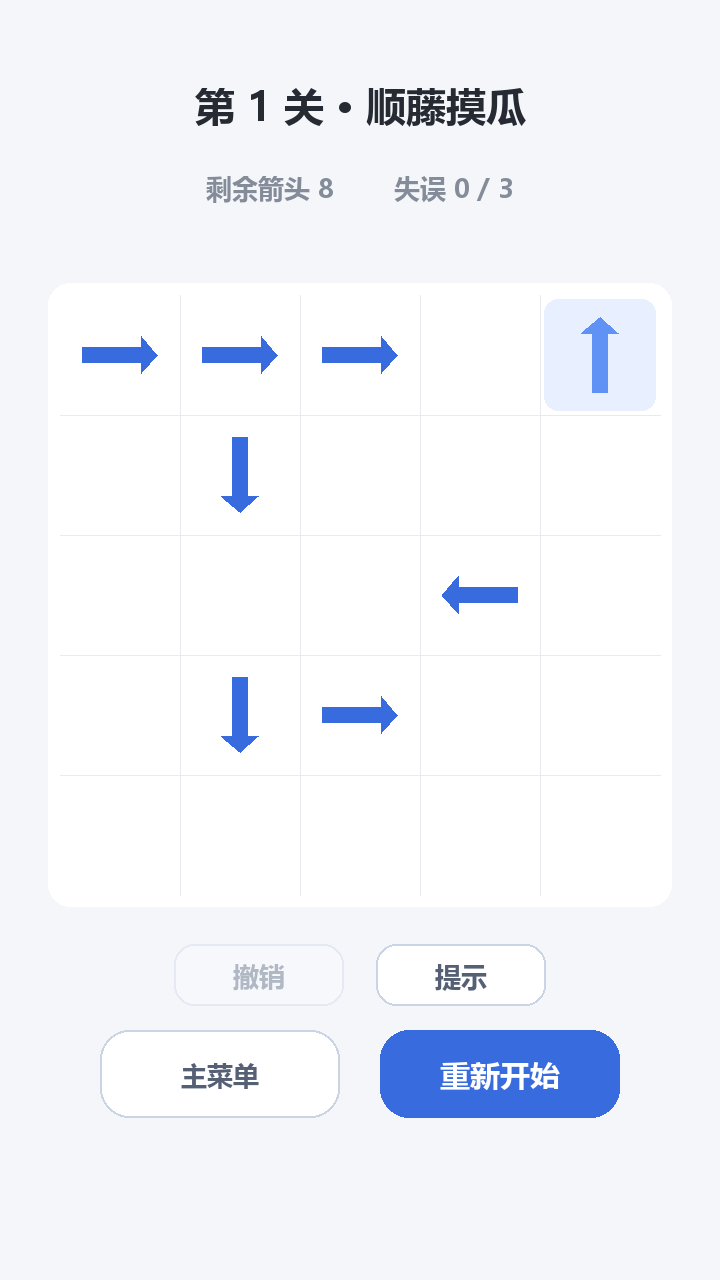
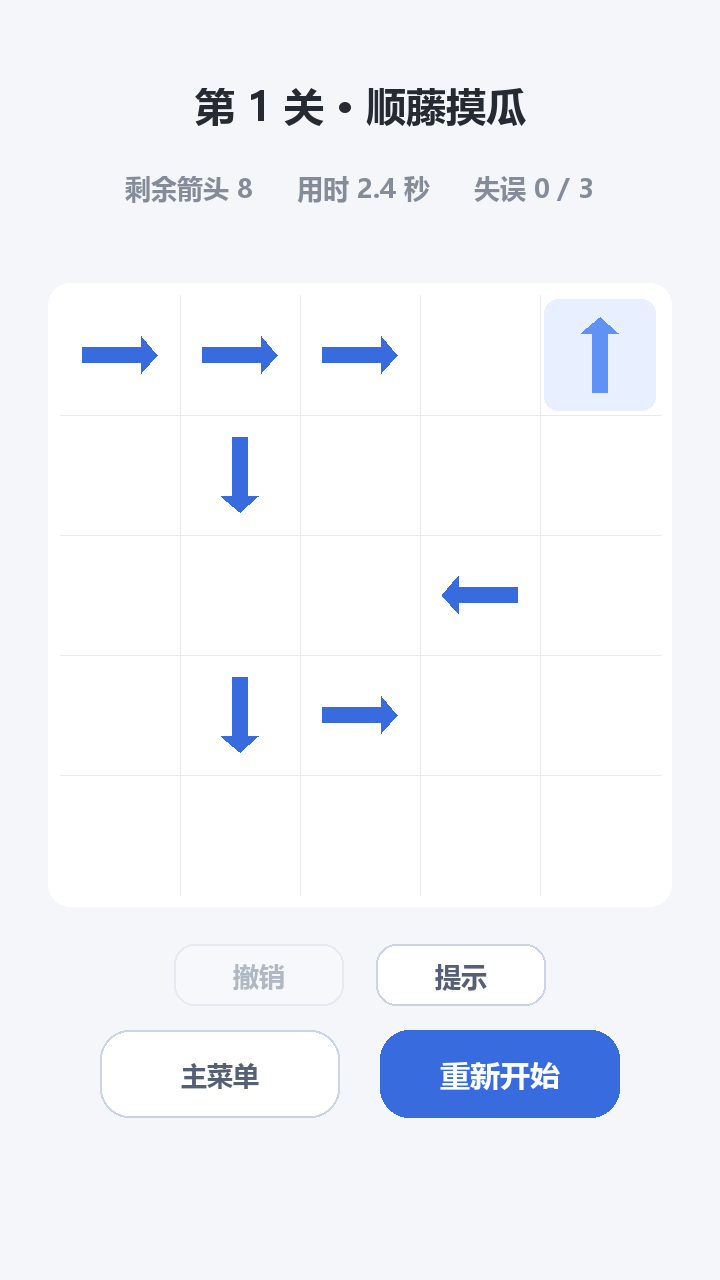
docs: 同步 README / DEVLOG / 博客与截图素材
- README：新增「星级与得分」规则表；截图补「通关（有失误）」与「全部通关」；
  功能一览补计时、星级、得分三项；HUD 描述加用时；测试一节 30 → 34 项
- DEVLOG：新增记录 19（计时、星级评价与得分），现共 19 条
- 博客：2.2 界面表与 2.3 功能列表补新功能；2.4 数字更新；4.1 汇总表补一行；
  4.2 增补第 5 次代表性协作（键盘路径漏加守卫）；5.2 补 T22~T25、汇总 30 → 34；
  5.3 增补一条；项目展示补两张截图
- capture_screenshots.py：若干场景原先在点击之间不推进时间，导致结算里的用时显示
  为 0.0 秒、选关卡片全成满分，一并修正；新增一张「有失误的通关结算」用于对照说明
  评级规则
- 截图与演示动图按新界面全部重出

Changed region(s): [[0.1528, 0.125, 0.825, 0.1562]]

diff --git a/tools/capture_screenshots.py b/tools/capture_screenshots.py
@@ -44,23 +44,48 @@ def setup_menu(game):
 
 
 def setup_playing(game):
-    """游戏中：进入第一关，鼠标悬停在右上角的箭头上。"""
+    """游戏中：进入第一关，鼠标悬停在右上角的箭头上。
+
+    先推进一会儿时间，让 HUD 上的用时是个"进行中"的数字而不是 0.0。
+    """
     game.start_game()
+    game.update(2.4)
     game.hover = (0, 4)
 
 
 def setup_collision(game):
     """碰撞反馈：点击被阻挡的箭头，取晃动动画中间的一帧。"""
     game.start_game()
+    game.update(1.6)
     game.on_click(renderer.cell_center(game.origin, 0, 0))
     game.update(0.17)
 
 
 def setup_win(game):
-    """通关界面：按求解器给出的顺序清空棋盘，并等结算延迟走完。"""
+    """通关界面：按求解器给出的顺序清空棋盘，并等结算延迟走完。
+
+    每次点击后推进一点时间——否则用时停在 0.0 秒，结算画面会显得很假。
+    """
     game.start_game()
     for arrow in solve(game.board):
         game.on_click(renderer.cell_center(game.origin, arrow.row, arrow.col))
+        game.update(0.6)
+    game.update(1.0)
+
+
+def setup_win_rated(game):
+    """带有失误的通关结算：用来说明星级和得分是怎么被扣掉的。
+
+    与 setup_win 的满分局面形成对照——同样是通关，多一次失误就少一颗星、
+    少 200 分，结算界面里的每一个数字都对得上规则。
+    """
+    game.start_game()
+    blocked = next(a for a in game.board.arrows if not game.board.can_fly_out(a))
+    game.on_click(renderer.cell_center(game.origin, blocked.row, blocked.col))
+    game.update(0.5)
+    for arrow in solve(game.board):
+        game.on_click(renderer.cell_center(game.origin, arrow.row, arrow.col))
+        game.update(0.6)
     game.update(1.0)
 
 
@@ -75,6 +100,7 @@ def setup_lose(game):
 def setup_level5(game):
     """第 5 关：箭头最密集、依赖链最长的一关。"""
     game.start_level(len(game.levels) - 1)
+    game.update(6.8)
     game.hover = (4, 4)
 
 
@@ -83,22 +109,25 @@ def setup_all_clear(game):
     game.start_game()
     last = len(game.levels) - 1
     for index in range(len(game.levels)):
-        for arrow in solve(game.board):
-            game.on_click(renderer.cell_center(game.origin, arrow.row, arrow.col))
-        game.update(1.0)              # 走完"最后的箭头飞出"延迟，切到结算界面
+        clear_level(game)             # 内含时间推进与结算延迟等待
         if index < last:
             game.on_result_button()
 
 
 def clear_level(game):
-    """按求解器给出的顺序打通当前关卡，并把结算延迟走完。"""
+    """按求解器给出的顺序打通当前关卡，并把结算延迟走完。
+
+    同样要在点击之间推进时间，否则成绩里的用时为 0，选关卡片与
+    「全部通关」界面上的得分就全成了满分，看不出评级在起作用。
+    """
     for arrow in solve(game.board):
         game.on_click(renderer.cell_center(game.origin, arrow.row, arrow.col))
+        game.update(0.6)
     game.update(1.0)
 
 
 def setup_select(game):
-    """关卡选择界面：先通关前两关，让卡片上出现「已通关」标记。"""
+    """关卡选择界面：先通关前两关，让卡片上出现星级与得分。"""
     game.start_game()
     for _ in range(2):
         clear_level(game)
@@ -127,6 +156,7 @@ def main():
     capture("06_all_clear.png", setup_all_clear)
     capture("07_select.png", setup_select)
     capture("08_menu_progress.png", setup_menu_progress)
+    capture("09_win_rated.png", setup_win_rated)
 
     pygame.quit()
     return 0

diff --git a/docs/blog.md b/docs/blog.md
@@ -12,7 +12,7 @@
 
 ## 一、项目展示
 
-**玩法演示**（开始界面 → 关卡选择 → 游戏过程含一次碰撞 → 通关结算，约 9 秒）：
+**玩法演示**（开始界面 → 关卡选择 → 游戏过程含一次碰撞 → 通关结算，约 8.7 秒）：
 
 ![玩法演示](screenshots/demo.gif)
 
@@ -22,9 +22,13 @@
 | --- | --- | --- |
 | ![开始界面](screenshots/00_menu.png) | ![选关界面](screenshots/07_select.png) | ![游戏界面](screenshots/01_playing.png) |
 
-| 碰撞反馈 | 通关结算 | 失败结算 |
-| --- | --- | --- |
-| ![碰撞反馈](screenshots/02_collision.png) | ![通关](screenshots/03_win.png) | ![失败](screenshots/04_lose.png) |
+| 碰撞反馈 | 通关结算（零失误） | 通关结算（有失误） | 失败结算 |
+| --- | --- | --- | --- |
+| ![碰撞反馈](screenshots/02_collision.png) | ![通关](screenshots/03_win.png) | ![通关-有失误](screenshots/09_win_rated.png) | ![失败](screenshots/04_lose.png) |
+
+| 第 5 关（最难关卡） | 全部通关（累计总分与星数） |
+| --- | --- |
+| ![第 5 关](screenshots/05_level5.png) | ![全部通关](screenshots/06_all_clear.png) |
 
 以上画面全部由脚本驱动真实游戏生成，不是手绘或拼贴：`tools/make_gif.py` 输出演示 GIF，`tools/capture_screenshots.py` 输出全部截图——改动界面或动画参数后重跑一次，图和文档就同步更新了。
 
@@ -54,11 +58,11 @@
 
 | 界面 | 内容 |
 | --- | --- |
-| 开始界面 | 标题、玩法一句话说明、四个方向的示例箭头、「开始游戏」；有进度时额外出现「继续游戏 · 第 N 关」 |
-| 关卡选择 | 五张关卡卡片，显示序号、主题名、状态（已通关 / 剩余箭头数） |
-| 游戏界面 | 顶部显示关卡名、剩余箭头数、失误次数；中部棋盘；底部分两行按钮——上行「撤销 / 提示」，下行「主菜单 / 重新开始」 |
-| 通关结算 | 「过关！」或「全部通关！」+「主菜单 / 重玩本关 / 下一关」 |
-| 失败结算 | 「失误次数用完了」+ 已清除 / 剩余数量 +「主菜单 / 重试本关」 |
+| 开始界面 | 标题、玩法一句话说明、四个方向的示例箭头、「开始游戏」；有进度时额外出现「继续游戏 · 第 N 关」；有成绩时显示累计星数与总分 |
+| 关卡选择 | 五张关卡卡片，显示序号、主题名与状态——已通关的显示该关星级和得分，未通关的显示剩余箭头数 |
+| 游戏界面 | 顶部显示关卡名、剩余箭头数、本关用时、失误次数；中部棋盘；底部分两行按钮——上行「撤销 / 提示」，下行「主菜单 / 重新开始」 |
+| 通关结算 | 「过关！」或「全部通关！」+ 三颗星（1 ~ 3 星）+ 本关得分 + 用时 / 失误 / 提示明细 +「主菜单 / 重玩本关 / 下一关」；全部通关时额外显示累计总分与星数 |
+| 失败结算 | 「失误次数用完了」+ 已清除 / 剩余数量 + 用时 +「主菜单 / 重试本关」（失败不评星） |
 
 720×1280 是**逻辑画布**的尺寸，不是窗口的尺寸。这一点是后来改的：在 1080p 屏幕上实测发现，去掉任务栏后可用高度只有 1032 像素，窗口比屏幕高出 248 像素，Windows 只能把它整体上移，结果标题栏被顶到屏幕外——顶部文字被裁掉一半，而且没有标题栏可抓，窗口也拖不动。修复方式是启动时读一次屏幕可用区域算出缩放比例（本机为 0.77，窗口变为 554×984），所有绘制照旧发生在 720×1280 的逻辑画布上、最后整体缩放到窗口，鼠标坐标再反向换算回逻辑坐标。这样界面代码一行都不用重排，屏幕够大时还会自动保持 1:1。
 
@@ -69,9 +73,11 @@
 - **失误机制**：每关 3 次机会，顶部实时显示；
 - **5 个关卡**：难度递进，全部经求解器验证可通关；
 - **完整流程**：开始 → 选关 → 游戏 → 结算 → 下一关，支持重新开始、返回主菜单、继续游戏；
-- **关卡选择**：任意关卡可直接进入，已通关的标绿色「已通关」；
+- **关卡选择**：任意关卡可直接进入，已通关的卡片上显示该关星级与得分；
 - **撤销与提示**：撤销把棋盘和失误次数一起退回上一步，可连续撤销，没有历史时按钮置灰；提示高亮一个当前确实能飞出的箭头。另配键盘快捷键 `U` / `H`；
 - **四声音效**：飞出 / 碰撞 / 撤销 / 通关各一个音，全部由代码合成波形，不引入任何音频文件；
+- **计时与星级评价**：每关独立计时并在顶部实时显示，胜负判定即停表；星级由「失误次数 + 提示次数」决定——0 次三星、1 次两星、2 次及以上一星，通关至少一星，失败不评星。撤销不计入惩罚（它退还失误计数，是容错机制），提示计入（它是主动向游戏要答案）；
+- **得分与累计成绩**：每关满分 1000，每次失误 −200，超出参考时长（箭头数 × 5 秒）后每秒 −10，保底 200；重玩只保留更好的成绩。选关卡片、开始界面与「全部通关」界面分别显示单关成绩与累计总分 / 星数；
 - **判定后锁定输入**：胜负一经判定，棋盘与辅助按钮立即停止响应（这条是踩坑之后补的，见 5.3）。
 
 ### 2.4 特色
@@ -80,7 +86,7 @@
 
 1. **关卡可解性是算出来的，不是试出来的**。作业把「关卡实际上无法通关」列为明确扣分项，所以我写了一个贪心求解器自动校验每一关，还写了一个生成器专门构造必然可解的布局（见 3.3）。
 2. **每一步都留了真实的过程记录**。项目根目录有一份 `DEVLOG.md`，每次和 AI 协作完就当场追加一条，记录了提了什么要求、AI 给了什么、我改了什么。博客第五节的素材全部来自它，不是事后回忆的。
-3. **全流程可自动化复现**。一条命令跑完 30 项测试并生成 Markdown 报告，另有脚本自动生成全部界面截图和演示动图——文档里的图片和数据都可以随时重新生成，不靠手工截图。
+3. **全流程可自动化复现**。一条命令跑完 34 项测试并生成 Markdown 报告，另有脚本自动生成全部界面截图和演示动图——文档里的图片和数据都可以随时重新生成，不靠手工截图。
 
 ---
 
@@ -221,7 +227,7 @@ one-arrow-after-another/
 ├── run_game.bat            一键启动（双击即可）
 ├── run_tests.bat           一键测试
 ├── game/
-│   ├── config.py           窗口、网格、配色、动画参数、字体
+│   ├── config.py           窗口、网格、配色、动画与评价参数、字体
 │   ├── board.py            箭头模型 + 路径检测（核心）
 │   ├── levels.py           关卡数据（字符画）
 │   ├── solver.py           贪心求解与可解性判定
@@ -272,8 +278,9 @@ one-arrow-after-another/
 | 修复窗口超出屏幕 | WorkBuddy | 实测可用工作区 1920×1032 对照窗口高 1280，判定「顶部文字被裁」与「拖不动」是同一根因；新增 `view.py` 做逻辑画布 + 自动缩放 | 26 项回归通过；缩放后用窗口坐标点击 8/8 精确命中 | 问题由我截图反馈；缩放策略（只缩不放）采纳 AI 方案 |
 | 新增四声音效 | WorkBuddy | 为不引入音频文件和 numpy，改用 `mixer.Sound(buffer=)` 直接喂原始 PCM；逐采样累加相位避免滑音出现杂音 | 测试 28 → 29 项；波形首尾为 0、削波 0% | 音效范围由我选定（四个反馈音）；三条设计约束由 AI 提出后采纳 |
 | 修复连点不结算 + 调柔音效 | WorkBuddy | 定位到「判定到弹出结算」的动画延迟窗口没锁输入，并顺带发现更严重的隐患——失败后继续点会翻成胜利；音效刺耳拆成振幅 / 起音 / 频段 / 连点叠加四个原因逐项处理 | 测试 29 → 30 项；峰值 -43%、过零率 -20~31% | 两个问题都由我试玩发现；「刺耳」是主观判断，只能由我给出；调柔后的音量档位也由我确认 |
+| 计时、星级评价与得分 | WorkBuddy | 把通关记录从集合扩成成绩表（星级 / 得分 / 用时 / 失误 / 提示）；计时只在游戏进行中走表、判定即定格；实现星级与得分两个算式；顺带发现键盘 `U` / `H` 缺了与鼠标一致的"判定后守卫" | 测试 30 → 34 项；截图与演示动图全部重出 | 评级口径由我拍板：星级看失误 + 提示次数，得分看失误与用时 |
 
-### 4.2 四次代表性协作（展开说明）
+### 4.2 五次代表性协作（展开说明）
 
 #### ① 路径检测：AI 一次写对，人工的价值在"卡范围"和"验收"
 
@@ -345,6 +352,16 @@ one-arrow-after-another/
 
 **我的体会**：这次 AI 交回来的东西**比我提的问题多一点**——我只说了"按得快不结算"，它还找出"失败会被点成胜利"。我原本以为前者是失误计数的问题，实际上两者是同一处时序缺陷。这让我意识到，反馈问题时**把现象描述准**（说"按得快就不结算"，而不是猜"失误计数好像错了"）比猜原因更有用：准确的描述能让它找到真正的根因，而不是顺着我的猜测去改一个本来没坏的地方。
 
+#### ⑤ 加计时与星级时，顺带补上键盘路径漏掉的守卫
+
+**我的要求**：让游戏有计时和星级评价。评级口径由我定：星级看「失误次数 + 提示次数」，得分看「失误与用时」。
+
+**AI 的处理**：先把数据结构从"通关与否"的集合扩成一张成绩表（星级 / 得分 / 用时 / 失误 / 提示），再实现计时与两个算式。做的过程中它发现一个**同源漏洞**：鼠标路径在 `on_click` 里已经被"胜负已定"的守卫拦下，键盘路径（`U` / `H`）却没有这层守卫，两者行为不一致。后果是判定失败后按 `U` 能把结果清掉接着玩，「失误用尽即失败」形同虚设；按 `H` 还会白白多记一次提示、把星级拉低。修完补了 T25 专门覆盖，并做反向验证——临时把那道守卫删掉，T25 立刻失败而其余 33 项不受影响。
+
+**人工修改**：AI 给的候选口径是"星级只看失误次数"，我改成**星级同时计入提示次数**——理由是提示同样降低了游戏难度，不该完全免费（此前它既不影响成绩、也没有次数限制）。
+
+**我的体会**：这次让我注意到"同一件事有两条入口"是个容易漏的地方——同一个功能同时支持鼠标和键盘时，**在一处加的判断很容易忘了另一处**。上次的连点问题其实也是同一个根子（守卫考虑的是棋盘点击，没考虑键盘）。所以我现在会习惯性多问一句：这个判断，是不是所有入口都加到了？
+
 ---
 
 ## 五、测试结果
@@ -397,18 +414,24 @@ python tools/run_tests.py
 | T19 | 四个界面渲染冒烟（含缩放呈现） | 开始 / 选关 / 游戏 / 结算都能完整渲染一帧，缩放呈现也不报错 | 没画满的界面=无；缩放后窗口 (554,984) 正常 | 通过 |
 | T20 | 音效合成与无声卡降级 | 四个音效都能合成并播放；没有音频设备时播放变成空操作、不报错 | 已合成 fly/hit/undo/win；全部可播放=True；无声卡时静默跳过=True | 通过 |
 | T21 | 胜负判定后输入锁定 | 判定后继续快速连点：结算照常弹出、失误数不再增长、胜负不被改写、结算按钮仍可用 | 连点 4 秒后失误停在 3、结果=lose、状态=result；通关后连点结果仍=win | 通过 |
+| T22 | 计时系统 | 开局为 0；游戏进行中累加；回到开始界面或胜负判定后停表；重开归零 | 走表 3 秒正确；回菜单后停表；判定后定格在 4.9 秒；重开归零 | 通过 |
+| T23 | 星级评价（失误 + 提示） | 惩罚点数 0 → 3 星、1 → 2 星、2 及以上 → 1 星；最低 1 星；提示计入、撤销不计入 | 0+0→3 星、1+0→2 星、0+1→2 星、1+1→1 星、2+0→1 星；用一次提示后撤销仍为 2 星、提示次数 1 | 通过 |
+| T24 | 得分（失误与用时） | 满分 1000；每次失误 -200；超出参考时长后每秒 -10，保底 200；提示只降星不扣分 | 满分=True；1 次失误→800；超时 15 秒→850；扣到下限保底 200；3 次提示仍 1000 分 / 1 星 | 通过 |
+| T25 | 判定后键盘 U / H 失效 | 判定后按 U 不能撤销翻盘、按 H 不再计次；游戏进行中两者仍正常 | 判定失败后按 U 结果仍为 lose；按 H 提示次数仍为 0；游戏中按 H 正常计次 | 通过 |
 
-**结果汇总：共 30 项，通过 30 项，未通过 0 项。**
+**结果汇总：共 34 项，通过 34 项，未通过 0 项。**
 
 ### 5.3 开发过程中发现并修复的问题
 
-测试在开发中确实抓到过问题，下面是三次代表性记录：
+测试在开发中确实抓到过问题，下面是四次代表性记录：
 
 **① 2 项用例 FAIL → 定性为用例写错而非逻辑错。** 排查后确认：`P03` 想构造"朝上的箭头被上方箭头挡住"，但字符画 `"^\nv\n."` 里第 2 行的符号写成了 `v`（朝下），实际测的是另一个方向；`T05` 在调用 `restart()` **之后**才读取 `game.result`，而重开会把结果清空，断言必然失败。两者都是**测试用例本身写错，游戏逻辑正确**。修正用例后全部通过，教训是：断言读取状态的时机要和被测函数的执行顺序对齐。
 
 **② 一处漏改没被测出来 → 暴露出测试本身的缺口。** 加窗口自适应时，我对同一个文件并行发起了多次修改，后写入的那次基于旧内容覆盖了前一次，导致 `app.py` 的构造函数改动丢失、`renderer.py` 少了一个 `import`——**而当时已有的 26 项测试完全没报错**。原因是这套测试此前只覆盖逻辑层和点击链路，**从未调用过任何绘制函数**。据此补了 T19 渲染冒烟（四个界面各渲染一帧，用哨兵色判断画面有没有画满），并做了反向验证：把那行 `import` 临时删掉后 T19 立刻以 `NameError` 失败，而旧套件抓不到。教训是"测试通过"只能说明**被测到的部分**没问题，还要反问一句"它到底覆盖到没有"。
 
 **③ 判定后连点不结算 → 同一个根因还带出一个"败转胜"的隐患。** 详细过程见 4.2 ④，这里只记结论：凡是"先置结果标志、延迟若干秒再切状态"的写法，都必须在这段延迟窗口里屏蔽输入，否则用户的高频操作可以无限推迟状态切换。另外，写对应的测试要用**细小的时间步去连续冲击这个窗口**，按固定的大间隔点击反而撞不上——这也是它当初能躲过自动化测试的原因。
+
+**④ 加计时与星级时，发现键盘路径漏了守卫。** 鼠标点击在 `on_click` 里已经被"胜负已定"的拦截挡住，键盘 `U` / `H` 却没有——同一个功能有两条入口，判断只加在了一处。后果是判定失败后按 `U` 能把结果清掉接着玩，「失误用尽即失败」形同虚设；按 `H` 还会多记一次提示、把星级拉低。补上守卫后新增 T25 覆盖，并做反向验证：删掉守卫 → T25 失败，其余 33 项不受影响。教训是**加判断时得把所有入口过一遍**，别只盯着鼠标。
 
 ### 5.4 本人试玩记录
 

diff --git a/README.md b/README.md
@@ -18,9 +18,13 @@
 |---|---|---|
 | ![开始界面](docs/screenshots/00_menu.png) | ![关卡选择](docs/screenshots/07_select.png) | ![游戏界面](docs/screenshots/01_playing.png) |
 
-| 碰撞反馈 | 通关 | 失败 |
-|---|---|---|
-| ![碰撞反馈](docs/screenshots/02_collision.png) | ![通关](docs/screenshots/03_win.png) | ![失败](docs/screenshots/04_lose.png) |
+| 碰撞反馈 | 通关（零失误） | 通关（有失误） | 失败 |
+|---|---|---|---|
+| ![碰撞反馈](docs/screenshots/02_collision.png) | ![通关](docs/screenshots/03_win.png) | ![通关-有失误](docs/screenshots/09_win_rated.png) | ![失败](docs/screenshots/04_lose.png) |
+
+| 第 5 关（最难关卡） | 全部通关（累计总分与星数） |
+|---|---|
+| ![第 5 关](docs/screenshots/05_level5.png) | ![全部通关](docs/screenshots/06_all_clear.png) |
 
 以上画面均由脚本驱动真实游戏代码渲染生成，非手工绘制：演示 GIF 由 `tools/make_gif.py` 生成，截图由 `tools/capture_screenshots.py` 生成，改动界面后可一键重出。
 
@@ -35,6 +39,21 @@
 3. 失误次数用尽（默认 3 次）→ 本关失败。
 4. 清空本关全部箭头 → 通关，可进入下一关。
 5. 随时可以「重新开始」把本关恢复到初始状态。
+6. 每关从进入关卡起计时，胜负判定时立即停表；结算界面给出本关星级与得分。
+
+### 星级与得分
+
+| 项目 | 规则 |
+|---|---|
+| 计时 | 从进入关卡开始，到胜负判定为止；结算界面、开始界面与选关界面都不计时 |
+| 星级 | 由 **失误次数 + 提示次数** 的累计值决定：0 → ★★★，1 → ★★，2 及以上 → ★（通关至少 1 星，失败不评星） |
+| 得分 | 每关满分 1000 分；每次失误 −200 分；超出参考时长后每秒 −10 分；保底 200 分 |
+| 参考时长 | 本关箭头数 × 5 秒（第 1 关 8 个箭头 → 40 秒，第 5 关 14 个箭头 → 70 秒） |
+
+**撤销不在评级惩罚之内**：它退还的是失误计数，属于"走错了退回来"的容错机制；
+而提示是主动向游戏要答案，因此计入惩罚。重玩同一关时只保留更好的成绩（先比星级，再比得分）。
+
+各关成绩会显示在关卡选择界面的卡片上（星级 + 得分），开始界面则显示累计星数与总分。
 
 ### 阻挡判定示例
 
@@ -131,15 +150,18 @@ python -m venv .venv
 - **四套界面**：开始界面、关卡选择界面、游戏界面、通关/失败结算界面
 - **5 个关卡**：难度递进，全部经求解器验证可通关
 - **继续游戏**：通关过至少一关后，开始界面出现「继续游戏 · 第 N 关」入口
-- **关卡选择**：可直接进入任意一关，已通关的关卡标绿色「已通关」
+- **关卡选择**：可直接进入任意一关，已通关的卡片显示该关星级与得分
 - **重玩本关**：通关后结算界面提供「重玩本关」，无需退回主菜单重新选关
+- **计时**：每关独立计时并在 HUD 实时显示，胜负判定即停表
+- **星级评价**：按「失误次数 + 提示次数」评 1 ~ 3 星，结算界面用三颗星展示
+- **得分与累计成绩**：每关满分 1000 分（失误与超时扣分、保底 200 分）；开始界面与「全部通关」界面显示累计总分与星数
 - **撤销上一步**：把棋盘与失误次数一起退回上一步的状态，可连续撤销；没有可撤销的步骤时按钮置灰
 - **提示**：高亮一个当前确实能飞出的箭头，点掉后提示自动收起
 - **四声音效**：飞出 / 碰撞 / 撤销 / 通关各一个音，全部由代码合成波形（正弦滑音 + 淡入淡出包络），不读取任何音频文件、不依赖 numpy；设备没有声卡时自动静音
 - **窗口自适应**：启动时按屏幕可用高度等比缩放窗口，屏幕放得下则保持 1:1；鼠标坐标自动换算回逻辑坐标
 - **判定后锁定输入**：胜负一经判定，棋盘与辅助按钮立即停止响应，避免"判定到弹出结算"这段动画延迟里被继续点击
 
-界面顶部的信息栏实时显示：当前关卡名、剩余箭头数、剩余失误次数。
+界面顶部的信息栏实时显示：当前关卡名、剩余箭头数、本关用时、剩余失误次数。
 
 ---
 
@@ -219,15 +241,15 @@ DEVLOG.md                  开发过程记录（含 AIGC 协作过程）
 
 测试覆盖两层：**逻辑层**直接调用 `Board.can_fly_out()` 验证路径判断；**交互层**调用 `Game.on_click()` 模拟真实鼠标点击，连同动画状态与失误计数一起验证。
 
-共 **30 项**用例，全部通过：
+共 **34 项**用例，全部通过：
 
 | 分类 | 用例 |
 |---|---|
 | 作业要求 | T01 ~ T06 |
 | 路径检测边界 | P01 ~ P05，以及 1×1 棋盘的四个方向（贴边朝外、阻挡不在同一行列） |
 | 流程与界面 | T07 连闯 5 关、T08 返回主菜单、T09 关卡选择、T10 继续游戏、T11 重玩本关、T12 键盘 R |
-| 附加功能 | T13 ~ T17（撤销、提示、撤销禁用态、快捷键 U / H） |
-| 工程健壮性 | T18 窗口自适应缩放、T19 四个界面渲染冒烟、T20 音效合成与无声卡降级、T21 胜负判定后输入锁定 |
+| 附加功能 | T13 ~ T17（撤销、提示、撤销禁用态、快捷键 U / H）；T22 ~ T24（计时、星级评价、得分） |
+| 工程健壮性 | T18 窗口自适应缩放、T19 四个界面渲染冒烟、T20 音效合成与无声卡降级、T21 胜负判定后输入锁定、T25 判定后键盘 U / H 失效 |
 
 运行结束后会自动生成 Markdown 格式的报告：`docs/test_report.md`。
 

diff --git a/DEVLOG.md b/DEVLOG.md
@@ -475,4 +475,44 @@
 
 ---
 
+## 记录 19 — 计时、星级评价与得分
+
+- **子任务**：新增计分与评级系统——每关计时、按表现评星、算出并累计总分
+- **使用的工具**：WorkBuddy
+- **提出的要求**：本人提出"加得分计时和星级评价"。具体评级口径也由本人拍板：
+  **星级看「失误次数 + 提示次数」，得分综合「失误与用时」**。
+- **AI 产出**：
+  1. **数据结构**：原先只有一个 `cleared_levels` 集合（只记"通关了没"），
+     扩成 `records` 字典：关卡索引 → {星级, 得分, 用时, 失误次数, 提示次数}。
+     `cleared_levels` 改为由 `records` 推导的只读属性——成绩表是唯一数据源，
+     再存一份 set 就得时刻担心两者不同步；
+  2. **计时**：`level_time` 只在「游戏进行中且胜负未定」时累加，结算界面、
+     开始界面与选关界面都不走表，否则玩家赖在结算页也会被算进用时。
+     胜负判定那一刻把用时定格到 `final_time`，之后的帧推进不再影响成绩；
+  3. **星级**：惩罚点数 = 失误次数 + 提示次数，每 1 点降 1 星，下限 1 星
+     （通关即有星；失败不评星）。**撤销不计入惩罚**——它退还的是失误计数，
+     属于"走错了退回来"的容错机制；提示是主动向游戏要答案，故计入；
+  4. **得分**：满分 1000，每次失误 −200，超出参考时长后每秒 −10，保底 200。
+     参考时长 = 本关箭头数 × 5 秒——各关箭头数不同（8 ~ 14 个），
+     若统一时长，后面几关会天然更容易超时；
+  5. **重玩只保留更好的成绩**（先比星级，再比得分）：回头刷星有意义，
+     也不会把已有的好成绩弄差；
+  6. **界面**：HUD 第二行改为「剩余箭头 / 用时 / 失误」三项（用时夹在中间——
+     它每帧都在变，放两侧会让另外两项跟着左右晃动）；结算界面画三颗星
+     （用多边形自绘，不依赖字体里的 ★ 字形）＋ 本关得分 ＋ 成绩明细；
+     选关卡片显示星级与得分；开始界面显示累计星数与总分；
+     「提示」按钮上带本关已用次数，让玩家看得见用量。
+- **实际效果**：测试 **30 → 34 项全通过**（新增 T22 计时、T23 星级评价、
+  T24 得分、T25 判定后键盘 U / H 失效）；截图与演示动图按新界面全部重出。
+- **人工修改**：
+  - **评级口径由本人拍板**：AI 给的候选是"星级只看失误次数"或"星级看失误、
+    得分看失误与用时"，本人改为 **星级同时计入提示次数**——理由是提示同样
+    降低了游戏难度，不该完全免费（此前它既不影响成绩、也没有次数限制）；
+  - **顺带修掉一个同源漏洞**：鼠标路径在 `on_click` 里已被"胜负已定"的守卫拦下，
+    键盘路径（`U` / `H`）却没有这层守卫。后果是判定失败后按 `U` 能把 `result`
+    清掉接着玩（"失误用尽即失败"形同虚设），按 `H` 则会白白多记一次提示、
+    把星级拉低。两条路径的行为现已一致，并补 T25 专门覆盖。
+
+---
+
 （后续协作记录继续往下追加）
